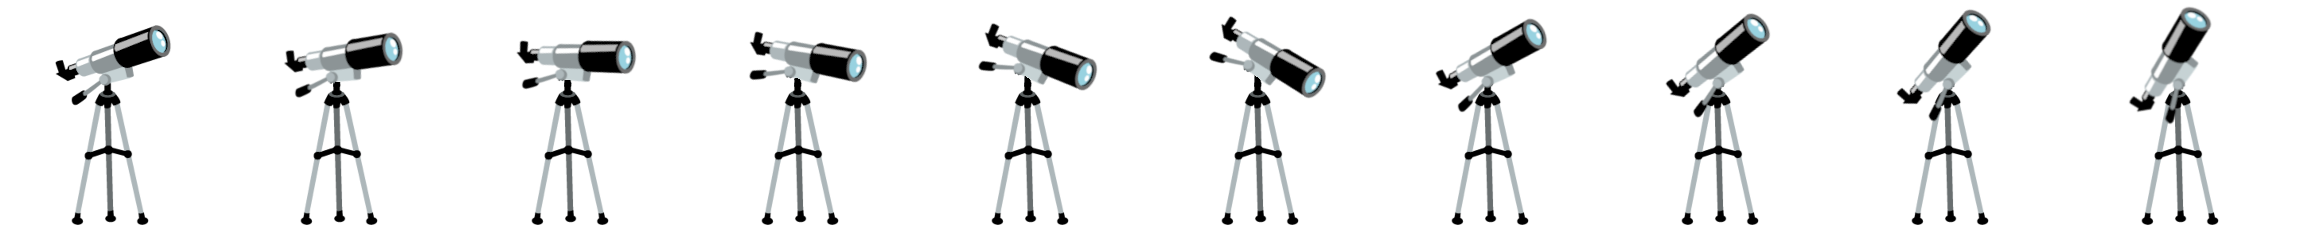
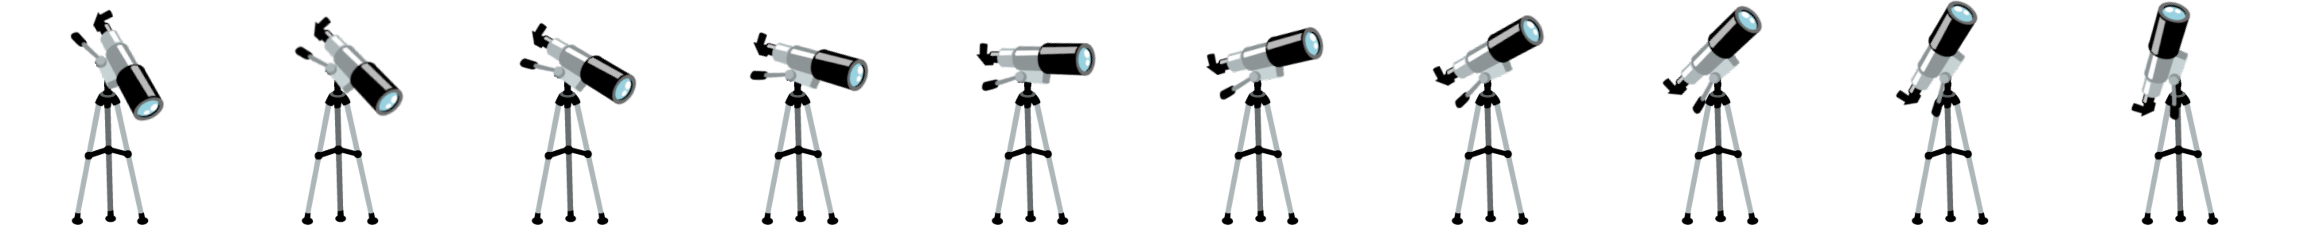
fondos

diff --git a/src/escenas/BuscandoLasEstrellas.ts b/src/escenas/BuscandoLasEstrellas.ts
@@ -13,11 +13,13 @@ class BuscandoLasEstrellas extends EscenaActividad {
   amigos = [];
 
   iniciar() {
-    this.fondo = new Fondo('fondo.manic.png', 0, 0);
-    this.cuadricula = new Cuadricula(0, 200, 1, 3,
-      { alto: 100 },
+    this.fondo = new Fondo('fondo.manic.oscuro.png', 0, 0);
+    this.cuadricula = new Cuadricula(10, 0, 2, 3,
+      { alto: 360, ancho: 440 },
       { grilla: 'invisible.png', cantColumnas: 1 });
-
+    this.cuadricula.casilla(0, 0).cambiarImagen('sombra5.telescopios.png');
+    this.cuadricula.casilla(0, 1).cambiarImagen('sombra7.telescopios.png');
+    this.cuadricula.casilla(0, 2).cambiarImagen('sombra9.telescopios.png');
     this.agregarTelescopios();
     this.agregarAutomata();
     this.agregarAmigos();
@@ -27,9 +29,10 @@ class BuscandoLasEstrellas extends EscenaActividad {
   agregarAutomata() {
     this.automata = new Manic();
     this.cuadricula.agregarActor(this.automata, 0, 0, false);
-    this.automata.y -= 220;
-    this.automata.x -= 10;
+    this.automata.y += 20;
+    this.automata.x -= 30;
     this.automata.definirAnimacion("moverTelescopio", [28, 29, 30, 28], 3, false);
+    
   }
 
   agregarTelescopios() {
@@ -39,17 +42,19 @@ class BuscandoLasEstrellas extends EscenaActividad {
     this.cuadricula.agregarActor(this.telescopios[0], 0, 0, false);
     this.cuadricula.agregarActor(this.telescopios[1], 0, 1, false);
     this.cuadricula.agregarActor(this.telescopios[2], 0, 2, false);
-    this.telescopios.forEach(t => { t.escala = 0.7; t.x += 30; t.y -= 250});
+    this.telescopios.forEach(t => { t.escala = 0.7; t.x += -3; t.y -= 0});
   }
 
   agregarAmigos() {
-    this.amigos.push(new Capy());
-    this.amigos.push(new Yvoty());
-    this.amigos.push(new Chuy());
+    this.amigos.push(new ActorCompuesto(0, 0, { subactores: [new Capy()] }));
+    this.amigos.push(new ActorCompuesto(0, 0, { subactores: [new Yvoty()] }));
+    this.amigos.push(new ActorCompuesto(0, 0, { subactores: [new Chuy()] }));
     this.amigos.forEach((a,i) => {
-        a.x += (i*100)+50
-        a.izquierda = pilas.derecha() + 1;
+      this.cuadricula.agregarActor(this.amigos[i], 1, 0, false);
+      a.x += (i*100)+50
+      a.izquierda = pilas.derecha() + 1;
       });
+
   }
 
   private crearEstado() {
@@ -75,30 +80,46 @@ class MoverTelescopio extends Interactuar {
 }
 
 class TodosObservando extends SecuenciaAnimada {
+
+// ver si todosobservando no tiene que ser una secuenciaanimada sino otro comportamiento
+// que permita que todos se muevan
+
   sanitizarArgumentos() {
     super.sanitizarArgumentos();
     pilas.escena_actual().automata.y -= 50;
     pilas.escena_actual().automata.izquierda = pilas.izquierda();
     pilas.escena_actual().automata.x += 200;
     pilas.escena_actual().automata.cargarAnimacion('parado');
+
+
+    this.argumentos.secuencia = [
+      //new Desaparecer({}),
+      new ComportamientoConVelocidad({ receptor: pilas.escena_actual().automata, nombreAnimacion: "correr" }),
+      new ComportamientoConVelocidad({ receptor: pilas.escena_actual().amigos[0], nombreAnimacion: "correr" }),
+      new ComportamientoConVelocidad({ receptor: pilas.escena_actual().amigos[1], nombreAnimacion: "correr" }),
+      new ComportamientoConVelocidad({ receptor: pilas.escena_actual().amigos[2], nombreAnimacion: "correr" })
+    ];
+  
+    /*
     pilas.escena_actual().amigos.forEach((a,i) => {
       a.izquierda = pilas.izquierda();
       a.x += (i*50)+50;
       a.y -= 100;
-      /*
+      a.hacer_luego(ComportamientoAnimado,{nombreAnimacion: 'correr'});
+      
       // con esto el unico que corre es el ultimo
       this.argumentos.secuencia = [
         new ComportamientoConVelocidad({ receptor: a, nombreAnimacion: "correr" }),
       ];
-      */
+      
     }
-    );
+    );*/
   }
 
   configurarVerificaciones() {
     super.configurarVerificaciones();
     this.agregarVerificacionTelescopio(0, 5, "primer");
-    this.agregarVerificacionTelescopio(1, 8, "segundo");
+    this.agregarVerificacionTelescopio(1, 7, "segundo");
     this.agregarVerificacionTelescopio(2, 9, "tercer");
   }
 
@@ -106,10 +127,5 @@ class TodosObservando extends SecuenciaAnimada {
     this.verificacionesPre.push(
       new Verificacion(() => pilas.escena_actual().telescopios[i].nombreAnimacionActual() === "mover" + veces,
         "¡El " + ordinal + " telescopio debe moverse " + veces + " veces!"));
-  }
-
-  postAnimacion() {
-    super.postAnimacion();
-    pilas.escena_actual().amigos.forEach(a => a.cargarAnimacion("parado"));
   }
 }
